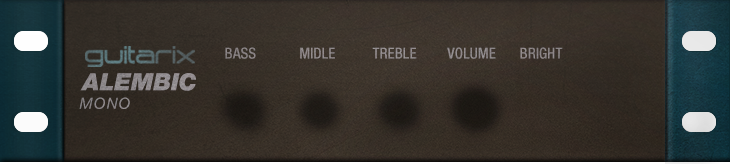
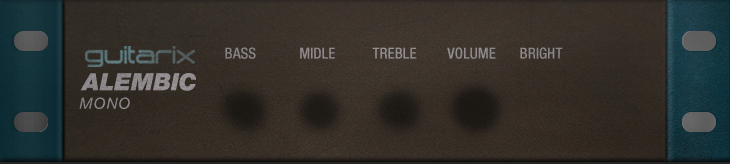
Tweak alembic (use shadow, not fully transparent holes)

diff --git a/plugin-data/gx_studiopre.lv2/modgui/icon-gxalembic.html b/plugin-data/gx_studiopre.lv2/modgui/icon-gxalembic.html
@@ -1,8 +1,5 @@
-
-<div class="mod-pedal mod-pedal{{{cns}}} mod-no-shadow">
-    
+<div class="mod-pedal mod-pedal{{{cns}}}">
     <div mod-role="drag-handle" class="mod-drag-handle"></div>
-
     <div class="alembic-bass" title="Bass">
         <div class="alembic-knob" mod-role="input-control-port" mod-port-symbol="bass"></div>
     </div>
@@ -18,15 +15,12 @@
     <div class="alembic-bright" title="Bright">
         <div class="alembic-bright-switch off" mod-role="input-control-port" mod-port-symbol="bright" mod-widget="switch">></div>
     </div>
-      
     <div class="mod-switch" mod-role="bypass"></div>
-      
     <div class="mod-pedal-input">
         <div class="mod-input mod-input-disconnected" title="Audio Input 1" mod-role="input-audio-port" mod-port-symbol="in">
             <div class="mod-pedal-input-image"></div>
         </div>
     </div>
-    
     <div class="mod-pedal-output">
         <div class="mod-output mod-output-disconnected" title="Audio Output 1" mod-role="output-audio-port" mod-port-symbol="out">
             <div class="mod-pedal-output-image"></div>
